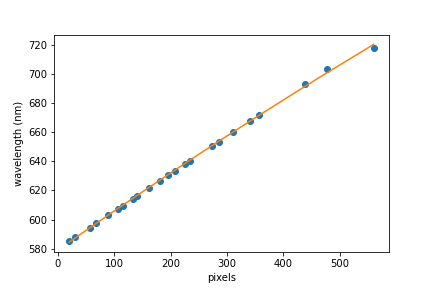
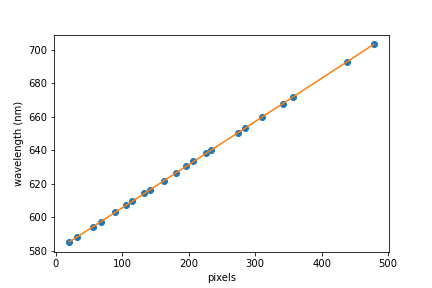
improved normalisation

diff --git a/normalize.py b/normalize.py
@@ -1,128 +1,138 @@
 from neon_lines import a, b, c
 from astropy.io import fits
-from lmfit.models import ExponentialGaussianModel, SkewedGaussianModel, GaussianModel, QuadraticModel, LinearModel
 import numpy as np
 import matplotlib.pyplot as plt
 from scipy.signal import find_peaks, peak_widths
 from scipy.ndimage import gaussian_filter1d
+from lmfit import Model
 
 class Normalize:
     
-    def __init__(self,degrees,data_folder):
-        """ Initializes data from 10 measurements.
-        Returns unprocessed dataset.
+    def __init__(self,data_folder,degrees,measurement):
+        """ Initializes data from 1 measurement. Reduces to 1D-data and
+        converts pixels to wavelength in nm
+        
+        Args:
+            degrees (int): angle at which the telescope was pointed
+            measurement {int}: number of measurement (01-10)
+            data_folder (str): folder in which the 'fits' files are stored
         """
         self.x = np.array([])
         self.y = np.array([])
-        self.smooth_y = np.array([])
+        self.x_masked = np.array([])
+        self.y_masked = np.array([])
         
-        self.dataset = []
-        for i in range(1,10):
-            data = fits.getdata(f'{data_folder}/{degrees}deg-00{i}.fit')
-            self.dataset.append(data)
-        self.dataset.append(fits.getdata(f'{data_folder}/{degrees}deg-010.fit'))
+        self.data = fits.getdata(f'{data_folder}/{degrees}deg-{measurement}.fit')
         
-        self.fit = np.array([])
-
-    def pixel_to_wavelength(self):
-        """ Reduces dataset to 1D array and converts pixels on x-axis
-        to wavelength in nm using known wavelengths of neon. 
-        """
-        reduced_dataset = []
-        for j in self.dataset:
-            reduced_data = np.sum(j, axis=0)
-            reduced_dataset.append(reduced_data)
+        self.a = 0
+        self.b = 0
+        self.c = 0
+        
+        reduced_data = []
+        reduced_data = np.sum(self.data, axis=0)
             
-        reduced_dataset = np.array(reduced_dataset)
-        y_pixel = np.mean(reduced_dataset, axis=0)
+        y_pixel = np.array(reduced_data)
         x_pixel = np.array([i for i in range(len(y_pixel))])
 
         self.x = a * x_pixel**2 + b * x_pixel + c
         self.y = np.array(y_pixel)
-        return(self.x, self.y)
-    
-    def isolate_peaks(self, min,max):
+
+
+    def isolate(self, min,max):
+        """Isolates specific wavelength range, so that only one absorption peak is found. 
         
-        self.x = self.x[min:max]
-        self.y = self.y[min:max]
+        Args:
+            min (float): lowest wavelength in range to analyze
+            max (float): highest wavelength in range to analyze
+        """
+        
+        # finds smallest difference between x and min/max
+        min_diff = np.abs(self.x - min)
+        max_diff = np.abs(self.x - max)
+        
+        # finds index associated with these values
+        min_idx = min_diff.argmin()
+        max_idx = max_diff.argmin()
+        
+        self.x = self.x[min_idx:max_idx+1]
+        self.y = self.y[min_idx:max_idx+1]
         
         return self.x, self.y
         
-    # def mask_peaks(self):
-    #     """ Masks absorption peaks for propper normalization.       
-    #     """        
-    #     peaks = find_peaks(-1 * self.y)
-    #     #peak_w = peak_widths(self.y, peaks)
-    #     peaks = peaks[0]
+    def mask_peak(self):
+        """Finds the largest peak (the absorption peak), and masks it for proper
+        normalization.
+        """
         
-    #     self.smooth_x = np.array([])
-    #     self.smooth_y = np.array([])
-        
-    #     # make range of dots to remove
-    #     peak_range = []
-    #     for i in range(len(peaks)):
-    #         peak_range.append(peaks[i] - 3)
-    #         peak_range.append(peaks[i] - 2)
-    #         peak_range.append(peaks[i] - 1)
-    #         peak_range.append(peaks[i])
-    #         peak_range.append(peaks[i] +1)
-    #         peak_range.append(peaks[i] +2)
-    #         peak_range.append(peaks[i] +3)
-
-    #     self.smooth_x = np.delete(self.x, peaks)
-    #     self.smooth_y = np.delete(self.y, peaks)
-        
-    #     return self.smooth_x, self.smooth_y
-        
-    def smooth_function(self):
-        
+        x = self.x
         y = self.y
-        self.smooth_y = gaussian_filter1d(y,sigma=1)
-        return self.smooth_y        
+        
+        peaks, _ = find_peaks(-y)
+        peak = peaks[np.argmin(y[peaks])]
+        
+        width, _, _, _ = peak_widths(-y, np.array([peak]))
+        
+        # find leftmost part of peak
+        x_left = x[peak] - width
+        left_diff = np.abs(x - x_left)
+        left_idx = np.argmin(left_diff)
+        
+        # find rightmost part of peak
+        x_right = x[peak] + width
+        right_diff = np.abs(x - x_right)
+        right_idx = np.argmin(right_diff)
+        
+        mask_range = np.array(range(left_idx, right_idx+1))
+        mask = np.ones_like(x, dtype=bool)
+
+        mask[mask_range] = False
+        
+        self.x_masked = x[mask]
+        self.y_masked = y[mask]
+        
+        return self.x_masked, self.y_masked
+        
+
+    # def smooth_function(self):
+        
+    #     y = self.y
+    #     self.smooth_y = gaussian_filter1d(y,sigma=1)
+    #     return self.smooth_y        
 
     def curve_fit(self):
         
-        y = self.smooth_y
-        x = self.x
+        x = self.x_masked
+        y = self.y_masked
         
-        q_model = LinearModel()
+        def function(x, a, b, c):
+            return a * x**2 + b*x + c
         
-        pars = q_model.guess(y, x=x)
-        result = q_model.fit(y,pars,x=x)
+        model = Model(function)
+        pars = model.make_params(a=1,b=1,c=1)
         
-        # plt.figure()
-        # plt.plot(x,y,'o',markersize=0.5)
-        # plt.plot(x,result.best_fit)
-        # plt.rcParams['figure.dpi'] = 300
-        # plt.xlabel('wavelength (nm)')
-        # plt.ylabel('relative intensity')
-        # plt.savefig('fit.png')
+        result = model.fit(y, pars,x=x)
         
-        self.fit = result.best_fit
-        return result.best_fit
+        self.a = result.params['a'].value
+        self.b = result.params['b'].value
+        self.c = result.params['c'].value
+        
+        return self.a,self.b,self.c
     
     def normalize(self):
         
-        y = self.smooth_y
-        norm_function = np.array(self.fit)/np.array(self.y)
-        norm_function = np.array(self.y)/np.array(self.fit)
-        return norm_function
+        x = self.x
+        y = self.y
+        
+        y_fit = np.array(self.a * x **2 + self.b * x + self.c)
+        print(y_fit)
+        plt.figure()
+        plt.plot(x,y)
+        plt.plot(x,y_fit)
+        
+        y_norm = y / y_fit
+        return y_norm
         
 data_folder = str('/home/gideon/Documents/NSP2/LISA data/Verschillende hoogtes/Sky_angles/Sky_angles')
 degrees = str('06')
+measurement=str('002')
 
-meting = Normalize(degrees, data_folder)
-x,y = meting.pixel_to_wavelength()
-x, y = meting.isolate_peaks(600, 850)
-plt.figure()
-plt.plot(x,y,'o')
-
-y = meting.smooth_function()
-yf =  meting.curve_fit()
-plt.figure()
-plt.plot(x,y,'o')
-plt.plot(x,yf)
-
-yn = meting.normalize()
-plt.figure()
-plt.plot(x,yn)
